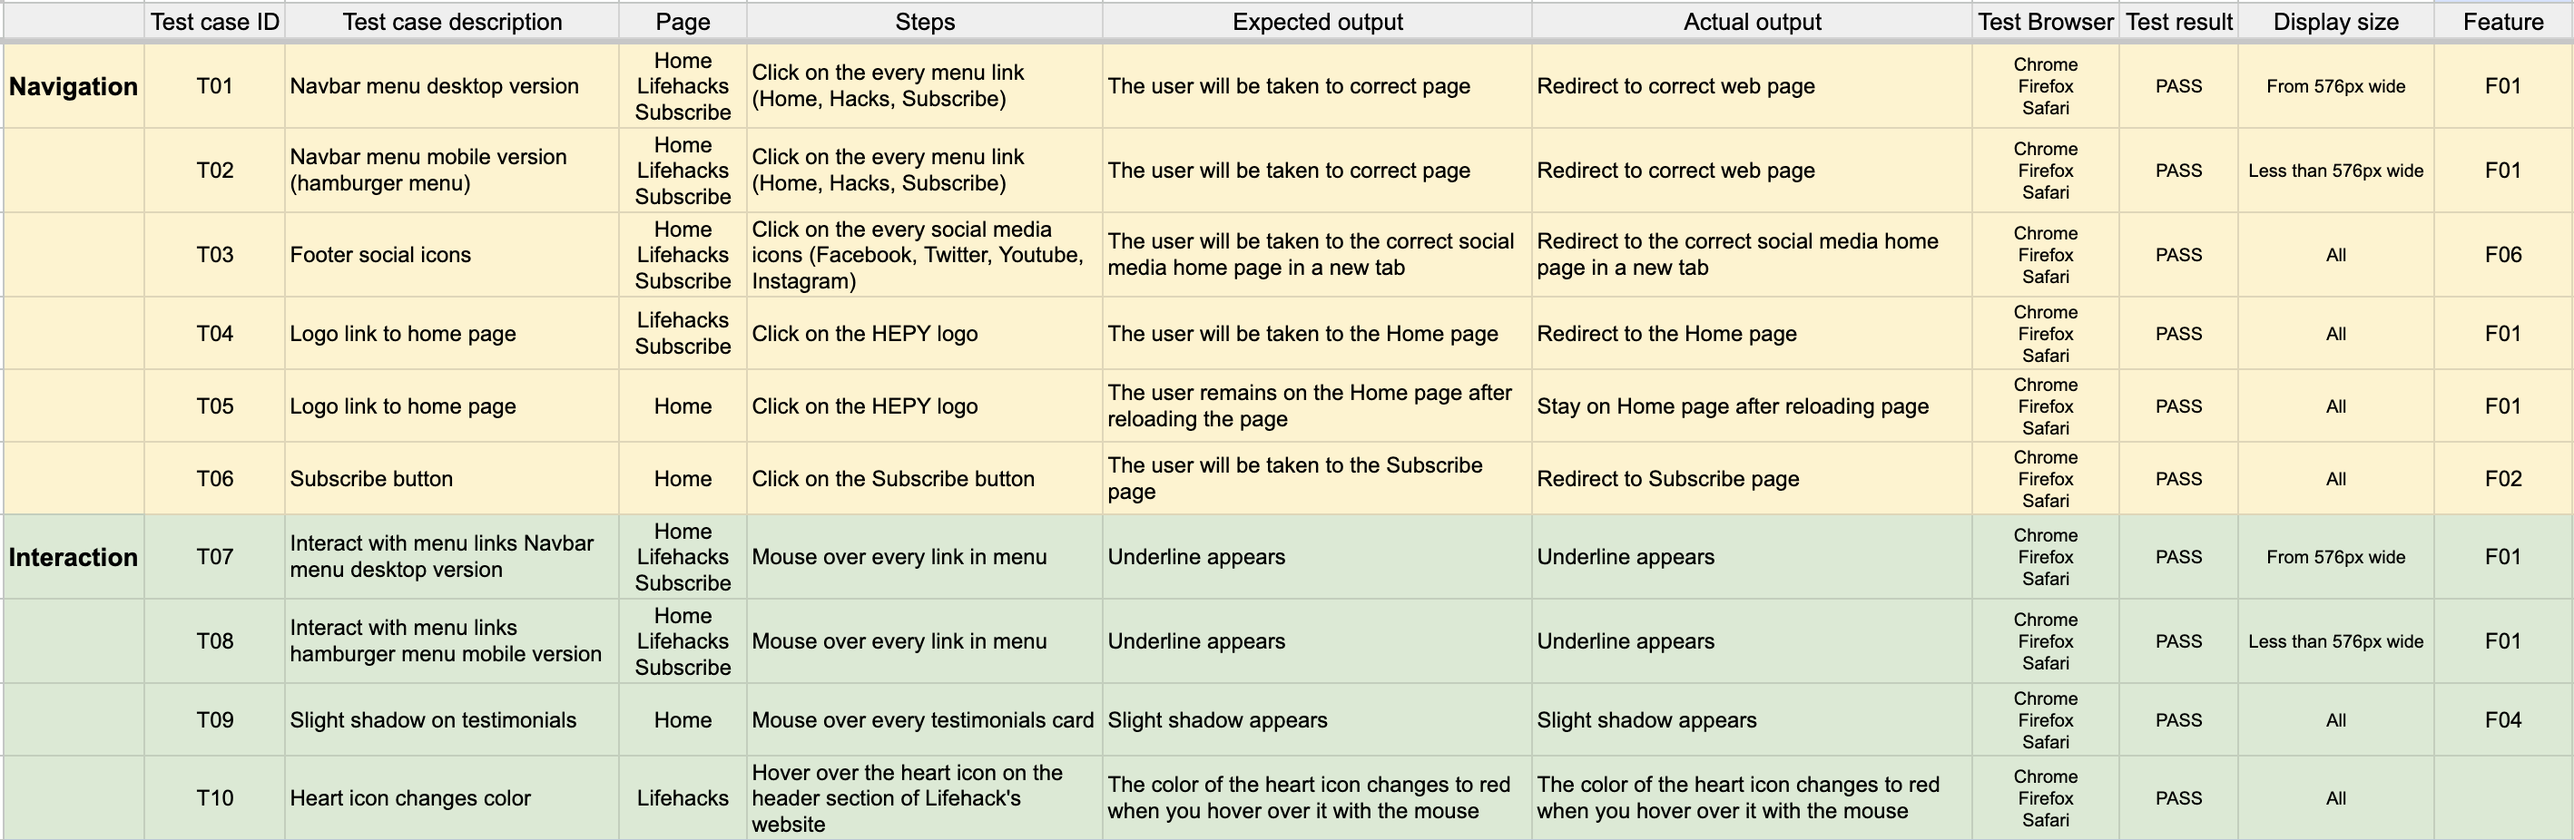
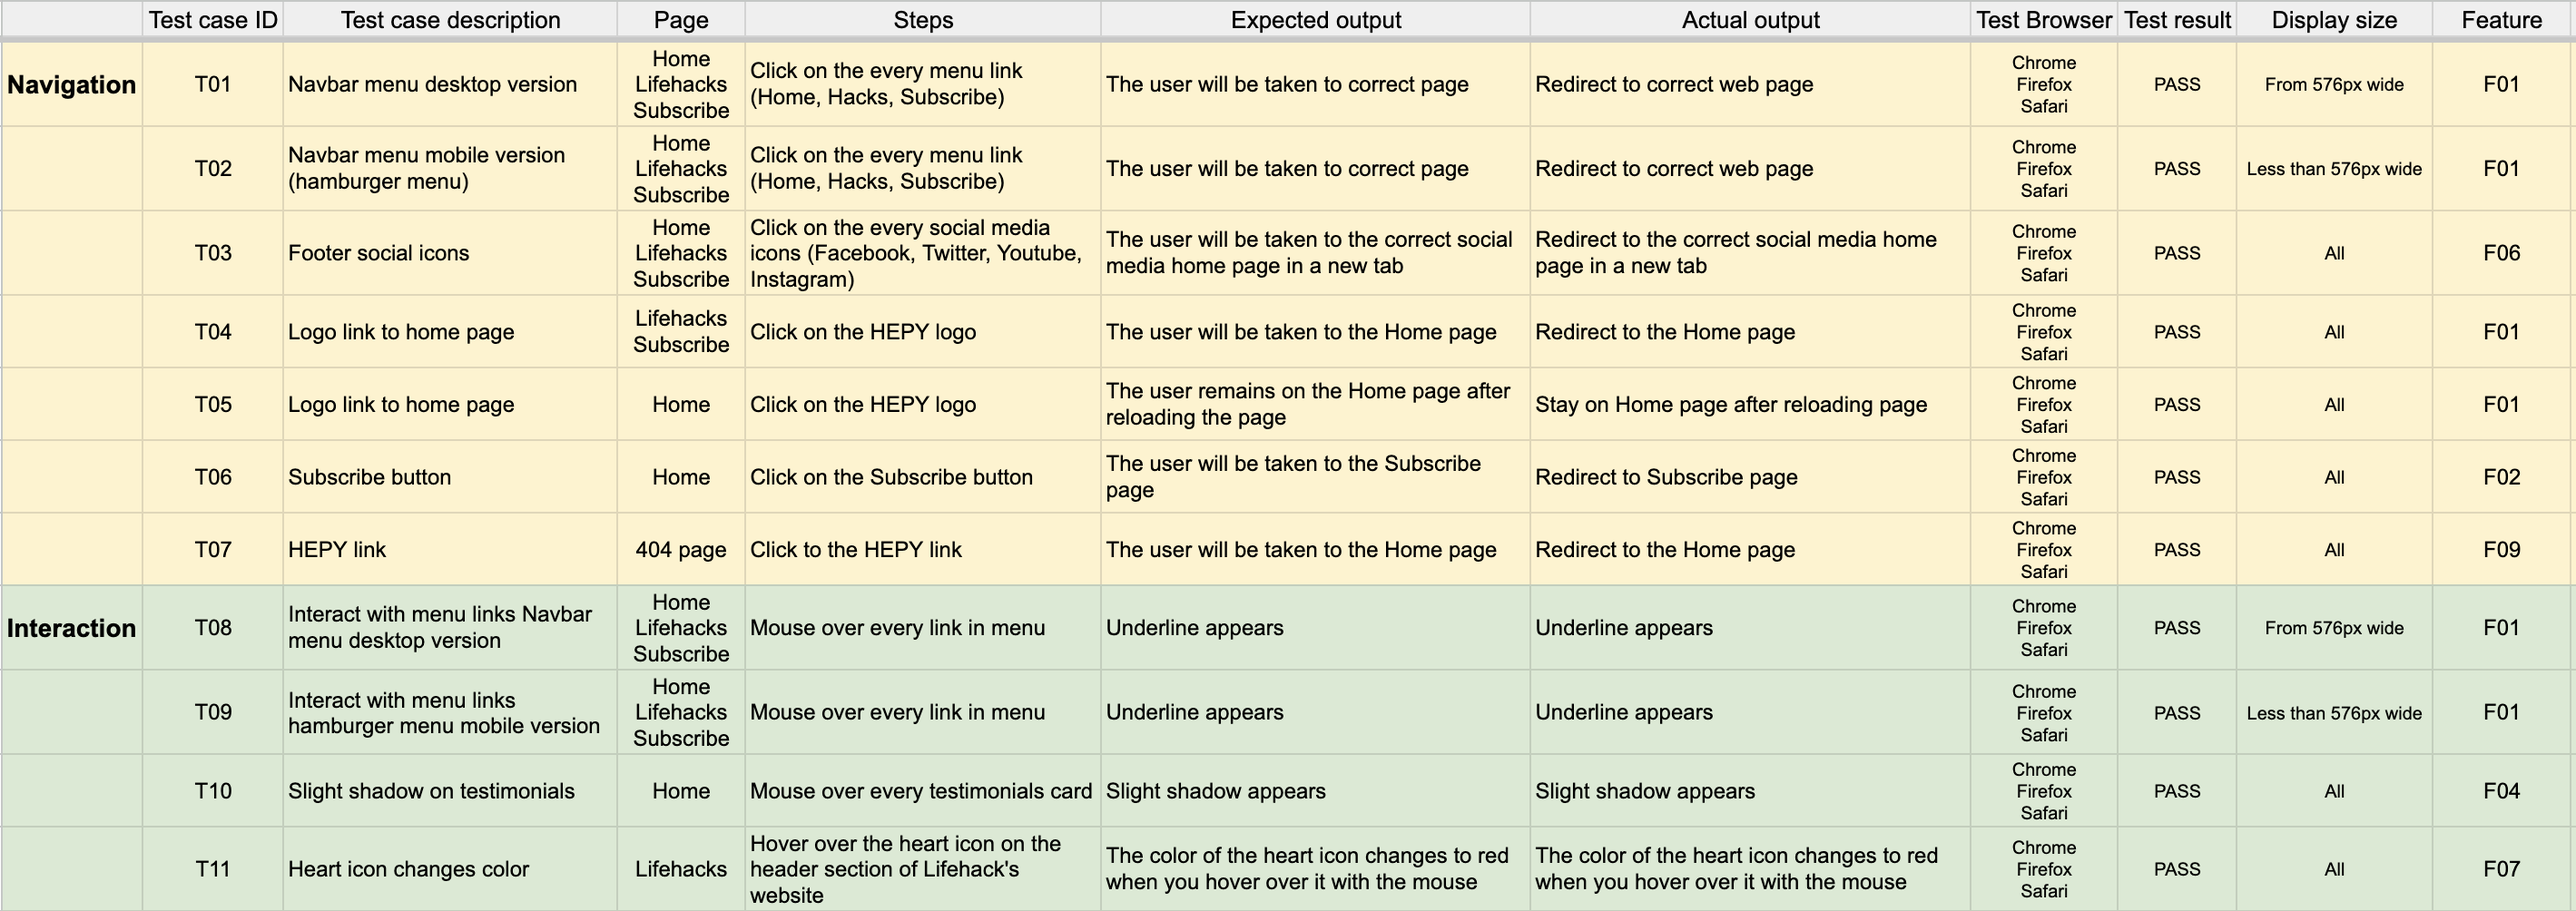
Add 404 page feature and test results in README

diff --git a/README.md b/README.md
@@ -138,6 +138,18 @@ To ensure that every visitor can see at least half of the adorable puppy, the su
   <img src="assets/images/readme/f08_mobile.png" width="200" alt="subscribtion form and dog with funny hat"/> 
 </p>
 
+### F09 page 404
+
+The 404 page design looks plain, even the cat's picture lacks color details. 
+This gray cat seems to be ignoring you, as if it's silently questioning, "Why are you here?"
+The linkable word "HEPY" in a gradient color helps users find their way back to the HEPY pet lifehacks home page.
+Hover the "HEPY" link has a hover effect, it slightly grows (5%).
+
+<p float="left">
+  <img src="assets/images/readme/f09_desktop.png" width="500" alt="desktop version of 404 page with grey cat"/>
+  <img src="assets/images/readme/f09_mobile.png" width="200" alt="mobile version of 404 page with grey cat"/> 
+</p>
+
 ## Future features
 
 > - Easily search for specific lifehacks by entering keywords or phrases into the search bar.
